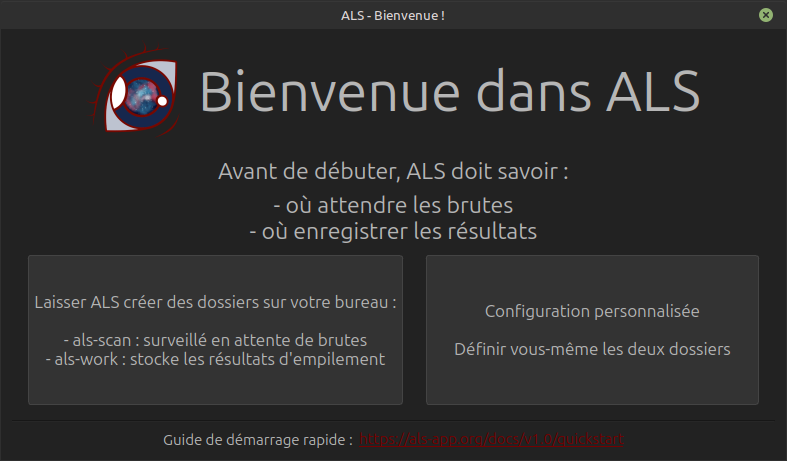
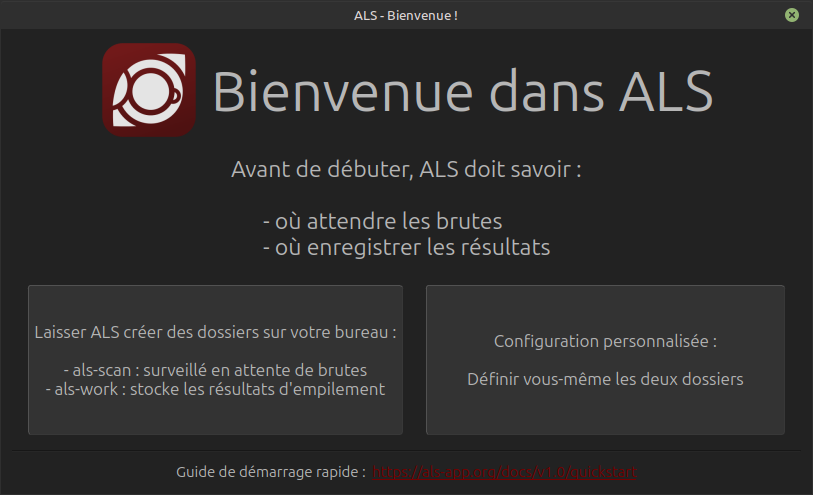
update screenshots on First Start section of the v1.0 quickstart doc

diff --git a/i18n/als_fr.ts b/i18n/als_fr.ts
@@ -352,7 +352,7 @@ ne doit pas être identique ou un sous-dossier de votre {} :
         <source>Custom config:
 
 Define both folders yourself</source>
-        <translation>Configuration personnalisée
+        <translation>Configuration personnalisée :
 
 Définir vous-même les deux dossiers</translation>
     </message>

diff --git a/website/content/fr/docs/v1.0/quickstart/_index.md b/website/content/fr/docs/v1.0/quickstart/_index.md
@@ -2,7 +2,7 @@
 title: "Premier démarrage"
 description: "Tout savoir pour bien débuter avec ALS."
 author: "ALS Team"
-lastmod: 2026-06-12T07:25:50Z
+lastmod: 2026-06-24T14:43:39Z
 keywords: [ "Premier démarrage d'ALS" ]
 draft: false
 type: "docs"
@@ -30,8 +30,8 @@ ALS a besoin de connaître le chemin de deux **dossiers critiques** :
 {{< center >}}
 {{< figure src="welcome.png"
 caption="Écran d'accueil ALS avec les options de configuration"
-width="787px"
-height="461px"
+width="813px"
+height="495px"
 alt="Écran d'accueil ALS avec les options de configuration" >}}
 {{< /center >}}
 
@@ -48,8 +48,8 @@ Vous avez deux options :
 {{< center >}}
 {{< figure src="custom_config.png"
 caption="Écran de configuration personnalisée des dossiers"
-width="787px"
-height="461px"
+width="813px"
+height="495px"
 alt="Écran de configuration personnalisée des dossiers" >}}
 {{< /center >}}
 

diff --git a/website/content/en/docs/v1.0/quickstart/_index.md b/website/content/en/docs/v1.0/quickstart/_index.md
@@ -2,7 +2,7 @@
 title: "Quick Start"
 description: "Everything you need to know to get started with ALS."
 author: "ALS Team"
-lastmod: 2026-06-12T07:25:50Z
+lastmod: 2026-06-24T14:43:39Z
 keywords: [ "Quick start with ALS" ]
 draft: false
 type: "docs"
@@ -30,8 +30,8 @@ ALS needs to know the paths of two **critical folders**:
 {{< center >}}
 {{< figure src="welcome.png"
 caption="ALS welcome screen with setup options"
-width="787px"
-height="461px"
+width="813px"
+height="495px"
 alt="ALS welcome screen with setup options" >}}
 {{< /center >}}
 
@@ -48,8 +48,8 @@ You have two options:
 {{< center >}}
 {{< figure src="custom_config.png"
 caption="ALS custom folder setup screen"
-width="787px"
-height="461px"
+width="813px"
+height="495px"
 alt="ALS custom folder setup screen" >}}
 {{< /center >}}
 
